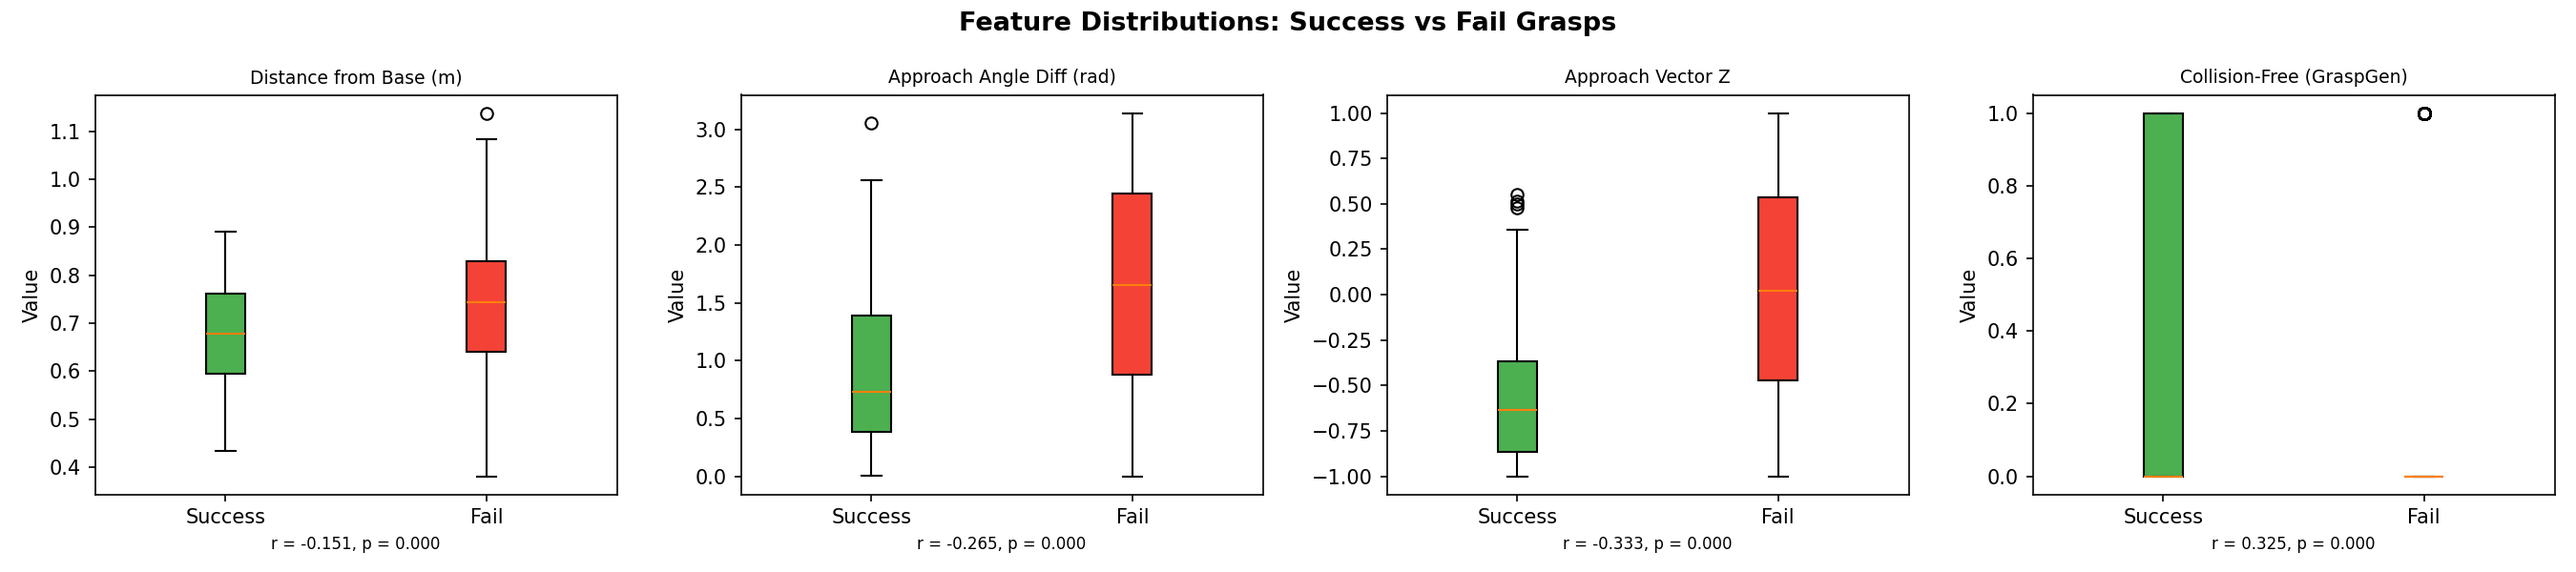
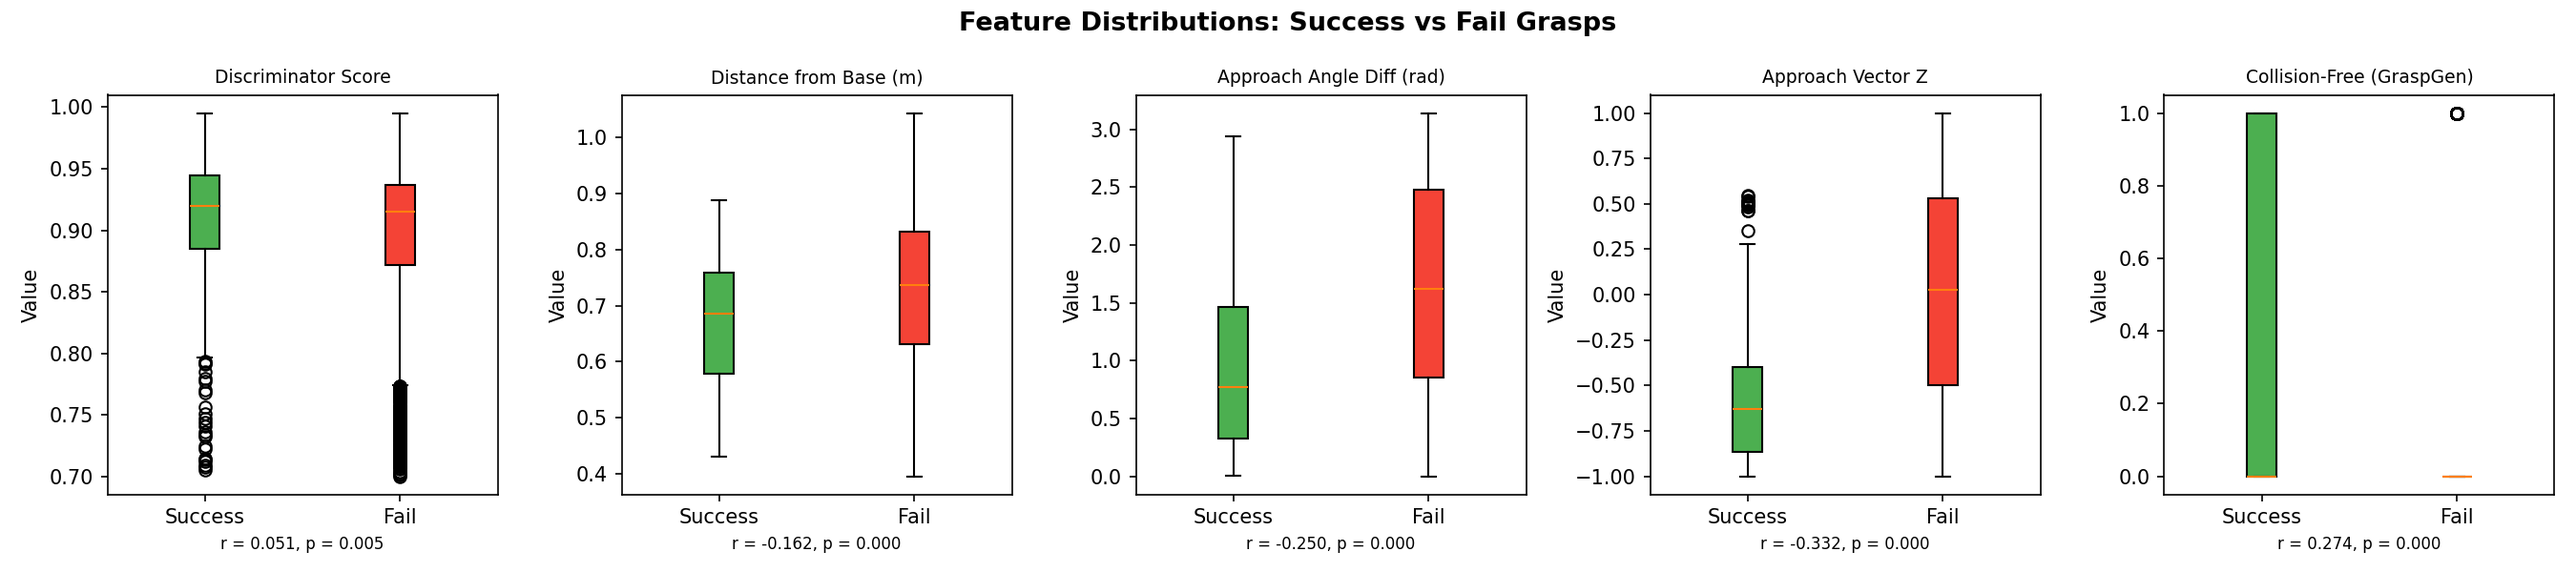
time and discriminator for analyze

diff --git a/analysis/analyze_grasps.py b/analysis/analyze_grasps.py
@@ -20,8 +20,9 @@ OUTPUT_DIR = Path(__file__).resolve().parent / "figures"
 OUTPUT_DIR.mkdir(exist_ok=True)
 
 SCENARIOS = ["in_basket", "on_shelf", "on_table"]
-FEATURE_NAMES = ["distance", "horizontal_angle_diff", "up_vector", "collision_free"]
+FEATURE_NAMES = ["discriminator_score", "distance", "horizontal_angle_diff", "up_vector", "collision_free"]
 FEATURE_LABELS = {
+    "discriminator_score": "Discriminator Score",
     "distance": "Distance from Base (m)",
     "horizontal_angle_diff": "Approach Angle Diff (rad)",
     "up_vector": "Approach Vector Z",
@@ -41,6 +42,8 @@ def load_all_data():
                     {
                         "scenario": scenario,
                         "file": i,
+                        "discriminator_score": grasp["discriminator_score"],
+                        "motion_plan_time": grasp["motion_plan_time"],
                         "distance": grasp["distance"],
                         "horizontal_angle_diff": grasp["horizontal_angle_diff"],
                         "up_vector": grasp["up_vector"],
@@ -195,7 +198,8 @@ def topk_table(
 
     K_VALUES = [1, 3, 5, 10, 20]
     results = {k: {"random": [], "learned": []} for k in K_VALUES}
-    learned_attempts, random_attempts = [], []
+    learned_attempts, discriminator_attempts = [], []
+    learned_times, discriminator_times = [], []
 
     np.random.seed(42)
     # Leave-one-scene-out: train on 14 scenes, evaluate on held-out scene
@@ -224,7 +228,7 @@ def topk_table(
         grasps_learned = [
             g for _, g in sorted(zip(scores, grasps, strict=True), key=lambda x: -x[0])
         ]
-        grasps_random = list(np.random.permutation(grasps))
+        grasps_random = sorted(grasps, key=lambda g: -g["discriminator_score"])
 
         for k in K_VALUES:
             results[k]["learned"].append(
@@ -240,23 +244,37 @@ def topk_table(
                     return i + 1
             return len(gs) + 1
 
+        def time_to_first_success(gs):
+            total = 0.0
+            for g in gs:
+                total += g["motion_plan_time"]
+                if g["success"]:
+                    return total
+            return total
+
         learned_attempts.append(first_success(grasps_learned))
-        random_attempts.append(first_success(grasps_random))
+        discriminator_attempts.append(first_success(grasps_random))
+        learned_times.append(time_to_first_success(grasps_learned))
+        discriminator_times.append(time_to_first_success(grasps_random))
 
     print("\n--- Top-K Success Rate Table ---")
-    print(f"{'k':<6} {'Random (baseline)':>20} {'Learned re-ranking':>20}")
-    print("-" * 48)
+    print(f"{'k':<6} {'Discriminator (baseline)':>25} {'Learned re-ranking':>20}")
+    print("-" * 53)
     for k in K_VALUES:
         r_rate = 100 * np.mean(results[k]["random"])
         l_rate = 100 * np.mean(results[k]["learned"])
-        print(f"{k:<6} {r_rate:>19.1f}% {l_rate:>19.1f}%")
+        print(f"{k:<6} {r_rate:>24.1f}% {l_rate:>19.1f}%")
 
     print("\nMean attempts to first success:")
-    print(f"  Random baseline : {np.mean(random_attempts):.1f}")
-    print(f"  Learned re-rank : {np.mean(learned_attempts):.1f}")
+    print(f"  Discriminator baseline : {np.mean(discriminator_attempts):.1f}")
+    print(f"  Learned re-rank        : {np.mean(learned_attempts):.1f}")
+
+    print("\nMean time to first success (s):")
+    print(f"  Discriminator baseline : {np.mean(discriminator_times):.2f}")
+    print(f"  Learned re-rank        : {np.mean(learned_times):.2f}")
 
     # Plot
-    fig, axes = plt.subplots(1, 2, figsize=(12, 5))
+    fig, axes = plt.subplots(1, 3, figsize=(18, 5))
     fig.suptitle(
         "Grasp Selection: Random Baseline vs Learned Re-ranking",
         fontsize=13,
@@ -272,7 +290,7 @@ def topk_table(
         x - width / 2,
         r_rates,
         width,
-        label="Discriminator Baseline",
+        label="Discriminator Score Order",
         color="#2196F3",
         alpha=0.8,
     )
@@ -300,9 +318,9 @@ def topk_table(
         )
 
     ax2 = axes[1]
-    means = [np.mean(random_attempts), np.mean(learned_attempts)]
+    means = [np.mean(discriminator_attempts), np.mean(learned_attempts)]
     bars = ax2.bar(
-        ["Discriminator\nBaseline", "Learned\nRe-ranking"],
+        ["Discriminator\nScore Order", "Learned\nRe-ranking"],
         means,
         color=["#2196F3", "#FF9800"],
         alpha=0.8,
@@ -319,6 +337,26 @@ def topk_table(
             fontweight="bold",
         )
 
+    ax3 = axes[2]
+    time_means = [np.mean(discriminator_times), np.mean(learned_times)]
+    bars3 = ax3.bar(
+        ["Discriminator\nScore Order", "Learned\nRe-ranking"],
+        time_means,
+        color=["#2196F3", "#FF9800"],
+        alpha=0.8,
+        edgecolor="black",
+    )
+    ax3.set_ylabel("Mean Time to First Success (s)")
+    ax3.set_title("Efficiency: Time to First Success")
+    for bar, v in zip(bars3, time_means, strict=True):
+        ax3.text(
+            bar.get_x() + bar.get_width() / 2,
+            v + 0.1,
+            f"{v:.2f}s",
+            ha="center",
+            fontweight="bold",
+        )
+
     plt.tight_layout()
     fig.savefig(OUTPUT_DIR / "topk_comparison.png", dpi=150)
     print(f"Saved: {OUTPUT_DIR / 'topk_comparison.png'}")
@@ -331,6 +369,13 @@ def main():
     print(
         f"Loaded {len(records)} grasps, {sum(r['success'] for r in records)} successes ({100 * sum(r['success'] for r in records) / len(records):.1f}%)"
     )
+
+    print("\n--- Point-biserial correlation with curobo_success ---")
+    labels = np.array([r["success"] for r in records])
+    for feat in FEATURE_NAMES:
+        vals = np.array([r[feat] for r in records])
+        corr, pval = stats.pointbiserialr(labels, vals)
+        print(f"  {FEATURE_LABELS[feat]:35s}: r={corr:+.3f}  p={pval:.4f}")
 
     print("\nPlotting feature distributions...")
     plot_feature_distributions(records)
